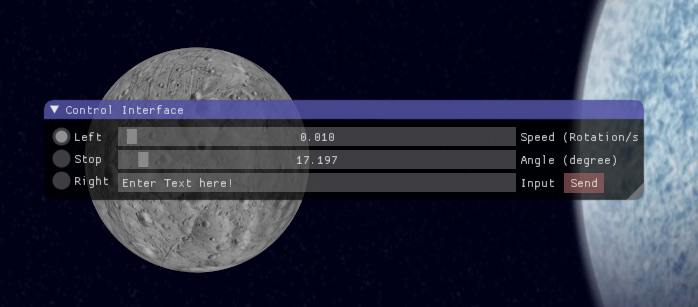
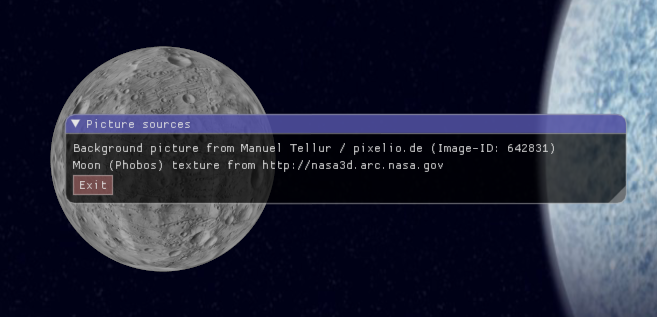
Add border to the example windows.

diff --git a/examples/04.Images/main.cpp b/examples/04.Images/main.cpp
@@ -133,7 +133,7 @@ void runScene(void)
       ImGui::SetNextWindowPos(ImVec2(20.0f, 20.0f));
       ImGui::SetNextWindowSize(ImVec2(500.0f, 150.0f));
     }
-    ImGui::Begin("Picture sources");
+    ImGui::Begin("Picture sources", NULL, ImGuiWindowFlags_ShowBorders);
     ImGui::Text("Background picture from Manuel Tellur / pixelio.de (Image-ID: 642831)");
     ImGui::Text("Moon (Phobos) texture from http://nasa3d.arc.nasa.gov");
     ImGui::Text("Soyuz image from https://pixabay.com (ID: 67718)");
@@ -154,7 +154,7 @@ void runScene(void)
     /// **********************************************************************
     /// Step 4 - Use ImGui::Image(...) to show an image from a texture ID
     /// **********************************************************************
-    ImGui::Begin("Chose your favorite Spaceship!");
+    ImGui::Begin("Chose your favorite Spaceship!", NULL, ImGuiWindowFlags_ShowBorders);
     ImGui::BeginGroup();
     ImGui::SetCursorPosY(ImGui::GetCursorPosY()+60.0f);
     ImGui::RadioButton("#1", &SpaceShip, 0);

diff --git a/examples/05.DragNDrop/main.cpp b/examples/05.DragNDrop/main.cpp
@@ -126,7 +126,7 @@ void runScene(void)
       ImGui::SetNextWindowPos(ImVec2(20.0f, 20.0f));
       ImGui::SetNextWindowSize(ImVec2(500.0f, 150.0f));
     }
-    ImGui::Begin("Picture sources");
+    ImGui::Begin("Picture sources", NULL, ImGuiWindowFlags_ShowBorders);
     ImGui::Text("Background picture from Manuel Tellur / pixelio.de (Image-ID: 642831)");
     ImGui::Text("Moon (Phobos) texture from http://nasa3d.arc.nasa.gov");
     ImGui::Text("Soyuz image from https://pixabay.com (ID: 67718)");
@@ -146,11 +146,11 @@ void runScene(void)
 
     if (HoveredSpaceShip != -1)
     {
-      ImGui::Begin("Available Ships", NULL, ImGuiWindowFlags_NoMove);
+      ImGui::Begin("Available Ships", NULL, ImGuiWindowFlags_NoMove | ImGuiWindowFlags_ShowBorders);
     }
     else
     {
-      ImGui::Begin("Available Ships");
+      ImGui::Begin("Available Ships", NULL, ImGuiWindowFlags_ShowBorders);
     }
     ImGui::Text("Drag your favorite");
     ImGui::Text("Space Ship into the");

diff --git a/examples/03.DifferentFonts/main.cpp b/examples/03.DifferentFonts/main.cpp
@@ -127,7 +127,7 @@ void runScene(void)
     {
       ImGui::SetNextWindowPos(ImVec2(20.0f, 20.0f));
     }
-    ImGui::Begin("Picture sources");
+    ImGui::Begin("Picture sources", NULL, ImGuiWindowFlags_ShowBorders);
     ImGui::Text("Background picture from Manuel Tellur / pixelio.de (Image-ID: 642831)");
     ImGui::Text("Moon (Phobos) texture from http://nasa3d.arc.nasa.gov");
     if (ImGui::Button("Exit", ImVec2(40, 20)))
@@ -146,7 +146,7 @@ void runScene(void)
     /// **********************************************************************
     /// Step 3 - Use PushFont()/PopFont() to switch between different Fonts
     /// **********************************************************************
-    ImGui::Begin("Different Fonts");
+    ImGui::Begin("Different Fonts", NULL, ImGuiWindowFlags_ShowBorders);
     ImGui::Text("Default Font");
     ImGui::PushFont(pCousine16);
     ImGui::Text("Cousine-Regular.ttf; 16px");

diff --git a/examples/02.AnotherWindow/main.cpp b/examples/02.AnotherWindow/main.cpp
@@ -112,7 +112,7 @@ void runScene(void)
     {
       ImGui::SetNextWindowPos(ImVec2(20.0f, 20.0f));
     }
-    ImGui::Begin("Picture sources");
+    ImGui::Begin("Picture sources", NULL, ImGuiWindowFlags_ShowBorders);
     ImGui::Text("Background picture from Manuel Tellur / pixelio.de (Image-ID: 642831)");
     ImGui::Text("Moon (Phobos) texture from http://nasa3d.arc.nasa.gov");
     if (ImGui::Button("Exit", ImVec2(40, 20)))
@@ -127,7 +127,7 @@ void runScene(void)
       ImGui::SetNextWindowPos(ImVec2(20.0f, 200.0f));
       ImGui::SetNextWindowSize(ImVec2(600.0f, 100.0f));
     }
-    ImGui::Begin("Control Interface");
+    ImGui::Begin("Control Interface", NULL, ImGuiWindowFlags_ShowBorders);
     ImGui::BeginGroup();
     ImGui::RadioButton("Left",  &RotationDirection, 1);
     ImGui::RadioButton("Stop",  &RotationDirection, 0);

diff --git a/examples/06.RenderWindow/main.cpp b/examples/06.RenderWindow/main.cpp
@@ -141,7 +141,7 @@ void runScene(void)
       ImGui::SetNextWindowPos(ImVec2(20.0f, 20.0f));
       ImGui::SetNextWindowSize(ImVec2(500.0f, 100.0f));
     }
-    ImGui::Begin("Picture sources");
+    ImGui::Begin("Picture sources", NULL, ImGuiWindowFlags_ShowBorders);
     ImGui::Text("Background picture from Manuel Tellur / pixelio.de (Image-ID: 642831)");
     ImGui::Text("Moon (Phobos) texture from http://nasa3d.arc.nasa.gov");
     if (ImGui::Button("Exit", ImVec2(40, 20)))

diff --git a/examples/Demo/main.cpp b/examples/Demo/main.cpp
@@ -111,7 +111,7 @@ void runScene(void)
       ImGui::SetNextWindowPos(ImVec2(20.0f, 20.0f));
       ImGui::SetNextWindowSize(ImVec2(500.0f, 100.0f));
     }
-    ImGui::Begin("Picture sources");
+    ImGui::Begin("Picture sources", NULL, ImGuiWindowFlags_ShowBorders);
     ImGui::Text("Background picture from Manuel Tellur / pixelio.de (Image-ID: 642831)");
     ImGui::Text("Moon (Phobos) texture from http://nasa3d.arc.nasa.gov");
     if (ImGui::Button("Exit", ImVec2(40, 20)))

diff --git a/examples/01.HelloWorld/main.cpp b/examples/01.HelloWorld/main.cpp
@@ -103,7 +103,7 @@ void runScene(void)
     pDriver->beginScene(true, true, irr::video::SColor(255,100,101,140));
 
     GUI.startGUI();
-    ImGui::Begin("Picture sources");
+    ImGui::Begin("Picture sources", NULL, ImGuiWindowFlags_ShowBorders);
     ImGui::Text("Background picture from Manuel Tellur / pixelio.de (Image-ID: 642831)");
     ImGui::Text("Moon (Phobos) texture from http://nasa3d.arc.nasa.gov");
     if (ImGui::Button("Exit", ImVec2(40, 20)))
